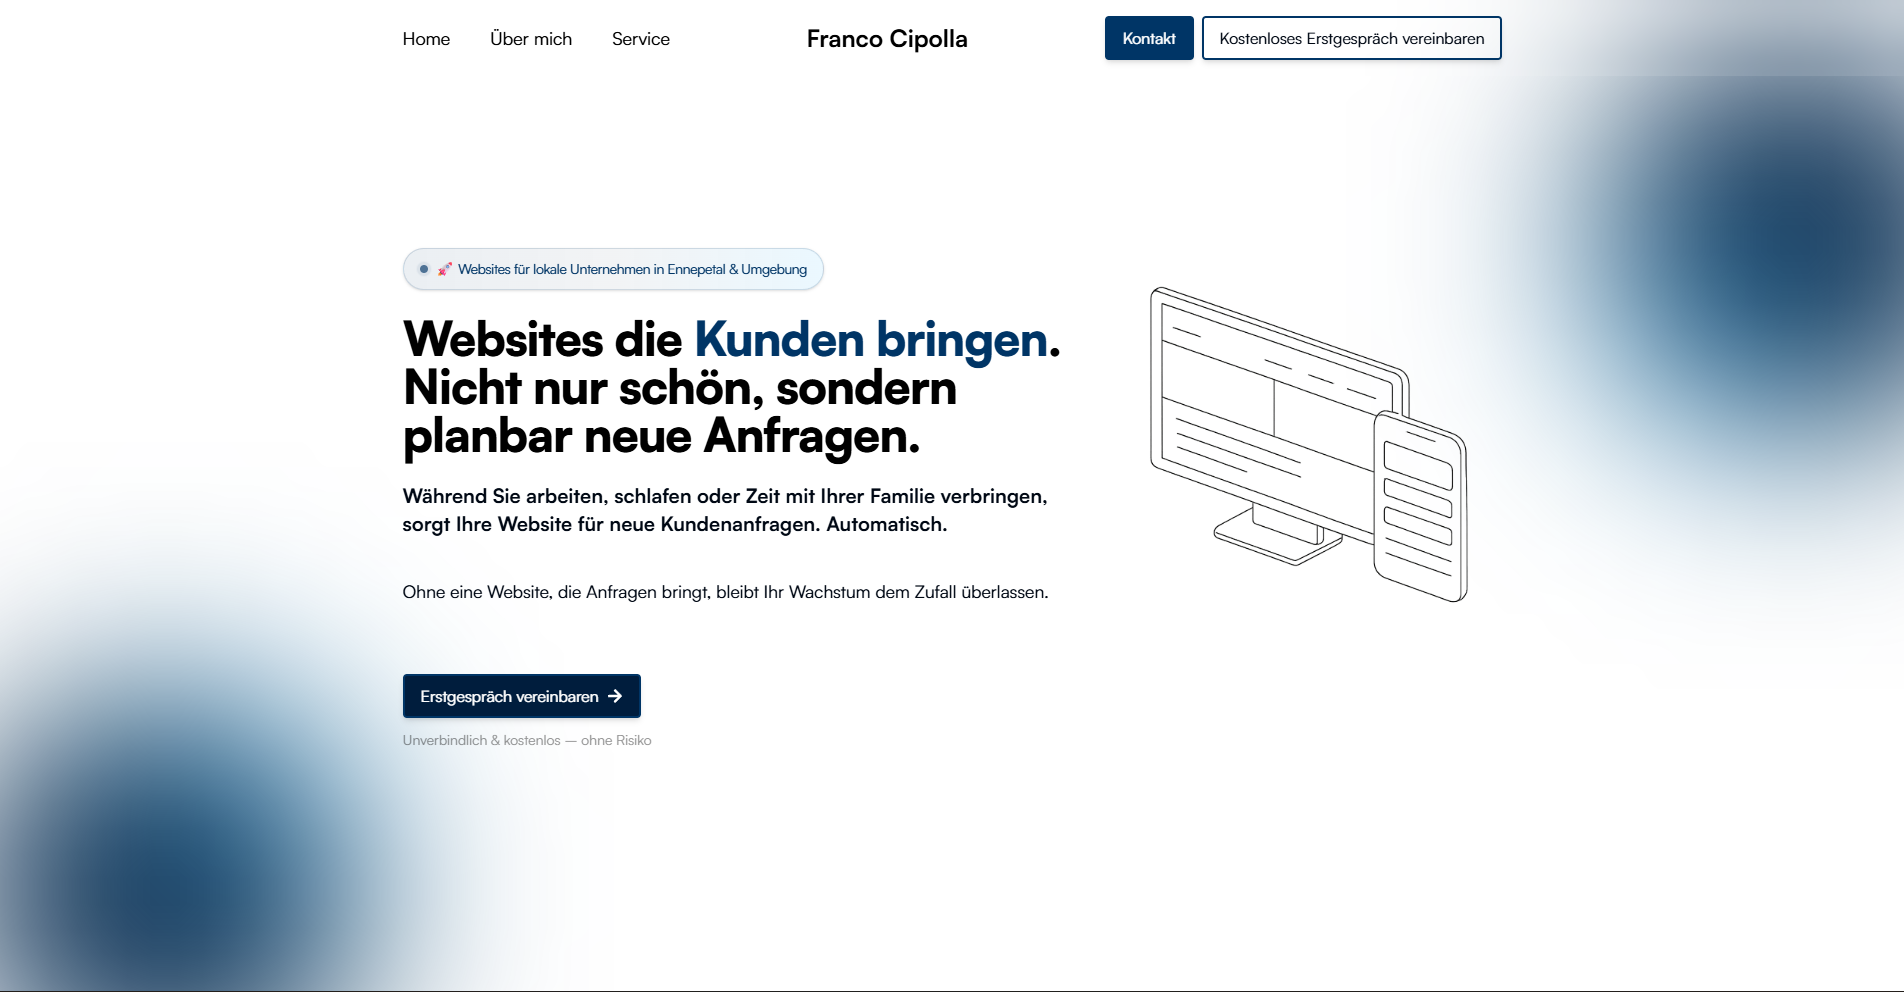
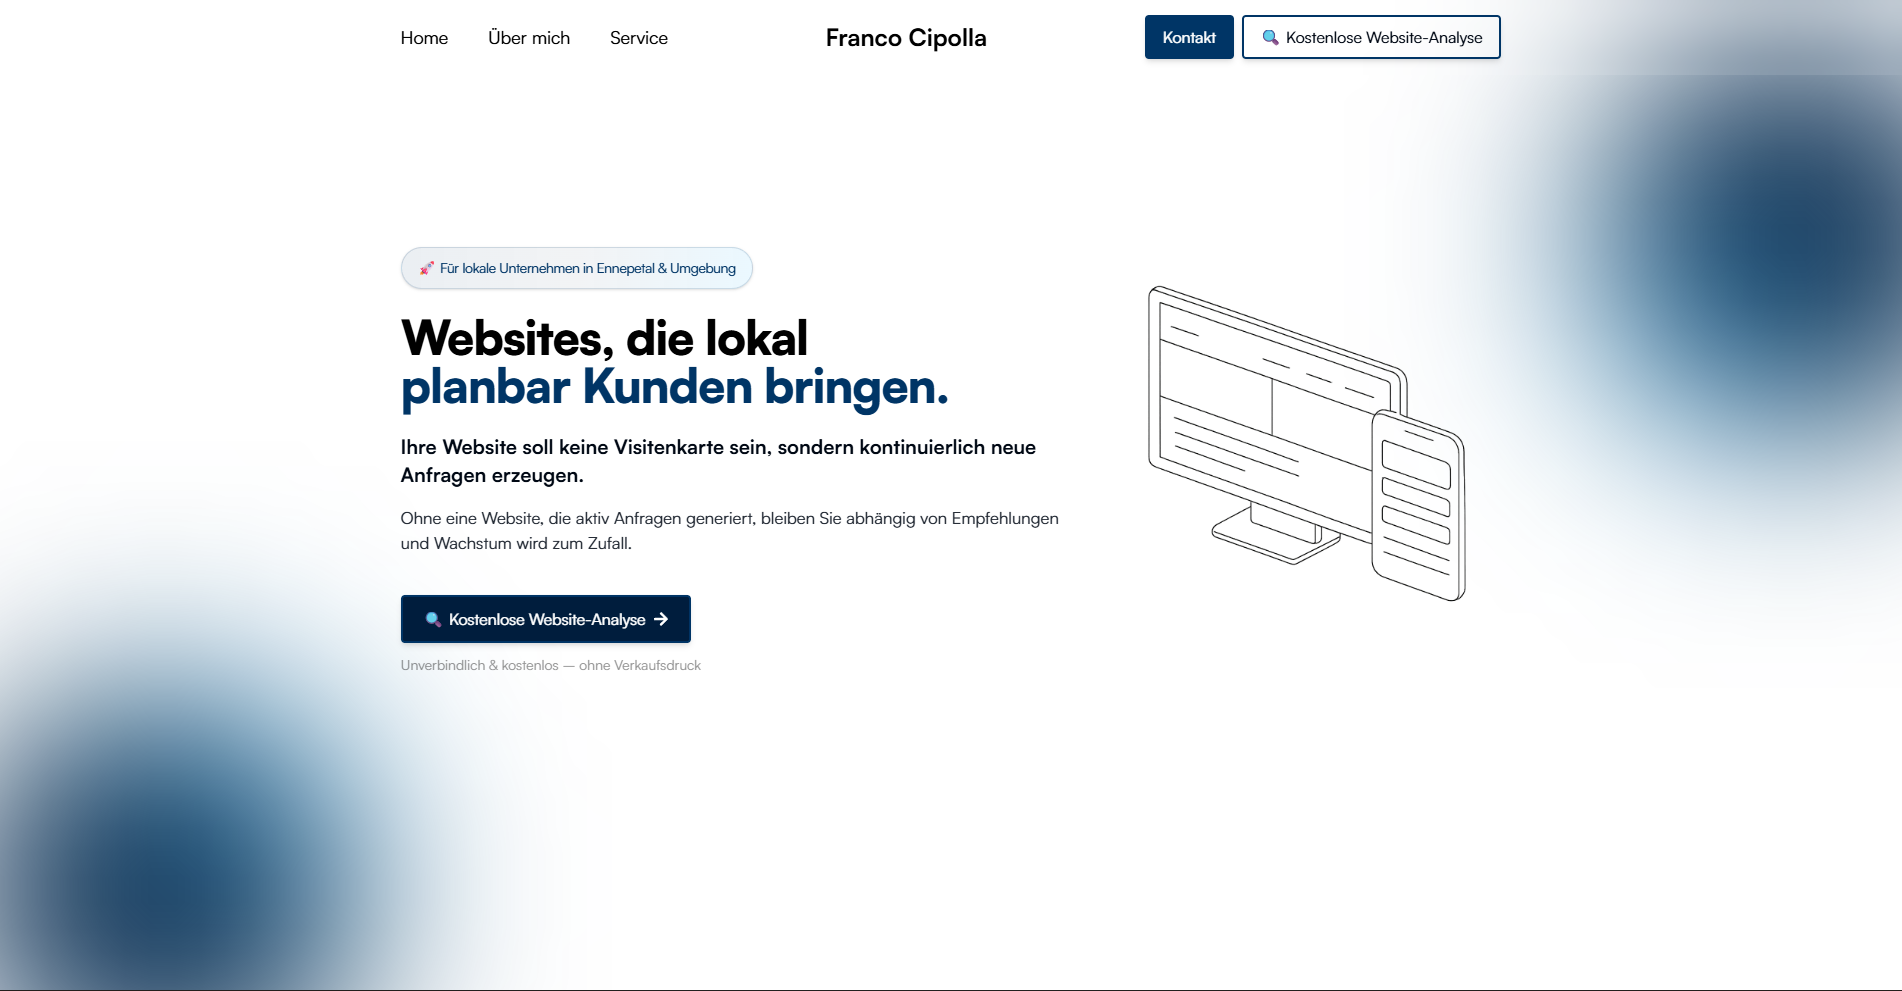
`Update index.html, og-preview.png, and Hero.jsx with minor changes to meta tags and text content`

diff --git a/index.html b/index.html
@@ -6,11 +6,11 @@
 
     <!-- SEO Meta Tags -->
     <title>
-      Websites, die Kunden bringen – Franco Cipolla, Webdesigner aus Ennepetal
+     Websites, die Kunden bringen – Franco Cipolla, Webdesigner aus Ennepetal | Mehr Anfragen & Umsatz
     </title>
     <meta
       name="description"
-      content="Ich erstelle Websites für Selbstständige & Unternehmen in Ennepetal & Umgebung, die wirklich Kundenanfragen bringen. Modernes Design, klare Struktur und Conversion-Optimierung – so verwandeln Sie Besucher in eine planbare Anfrage."
+      content="Ihre Website bringt keine Kunden? Ich erstelle Websites für Selbstständige & Unternehmen in Ennepetal & Umgebung, die wirklich Kundenanfragen bringen. Modernes Design, klare Struktur und Conversion-Optimierung – starten Sie jetzt durch und sichern sich planbare Anfragen."
     />
 
     <meta name="author" content="Franco Cipolla – Webdesigner aus Ennepetal" />
@@ -20,7 +20,7 @@
     <!-- Open Graph Tags (LinkedIn/Facebook) -->
     <meta
       property="og:title"
-      content="Websites, die Kunden bringen – Franco Cipolla, Webdesigner aus Ennepetal"
+      content="Websites, die Kunden bringen – Franco Cipolla, Webdesigner aus Ennepetal "
     />
     <meta
       property="og:description"
@@ -37,7 +37,7 @@
     <meta property="og:image:height" content="630" />
     <meta
       property="og:image:alt"
-      content="Franco Cipolla – Webdesigner aus Ennepetal"
+      content="Franco Cipolla – Webdesigner aus Ennepetal - Website für mehr Kundenanfragen"
     />
     <meta property="og:locale" content="de_DE" />
     <meta property="og:site_name" content="Franco Cipolla" />
@@ -54,7 +54,7 @@
     />
     <meta
       name="twitter:image"
-      content="https://franco-cipolla.de/og-preview.jpg"
+      content="https://franco-cipolla.de/og-preview.png"
     />
     <meta
       name="twitter:image:alt"

diff --git a/src/components/Hero.jsx b/src/components/Hero.jsx
@@ -125,7 +125,7 @@ const Hero = () => {
               ref={headlineRef}
               className="text-3xl md:text-5xl font-black text-black tracking-tight mb-6"
             >
-              Websites, die lokal <br/> <span className="text-[#003566]">planbar Anfragen bringen.</span>
+              Websites, die lokal <br/> <span className="text-[#003566]">planbar Kunden bringen.</span>
             </h1>
 
             {/* Subheadline & Text */}
@@ -173,7 +173,7 @@ const Hero = () => {
             <img
               ref={imageRef}
               src={HeroIllustration}
-              alt="Conversion-orientierte Website für lokale Unternehmen"
+              alt="Franco Cipolla – Webdesigner aus Ennepetal – Website für mehr Kundenanfragen"
               className={`xl:block w-full max-w-[600px] ${!isXL ? 'hidden' : ''}`}
             />
           </div>
